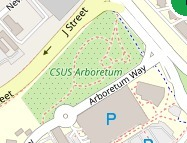
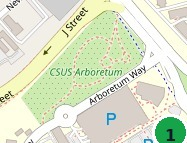
Refine tree and project map rendering

Changed region(s): [[0.8021, 0.7832, 1.0, 1.0], [0.9091, 0.0, 1.0, 0.1399]]

diff --git a/src/reporter_client/services/map_processor_service.py b/src/reporter_client/services/map_processor_service.py
@@ -14,6 +14,8 @@ class MapRenderPoint:
     ordinal: int
     risk_rating: str
     geojson_src: str
+    longitude: float | None = None
+    latitude: float | None = None
 
 
 @dataclass(frozen=True)
@@ -23,6 +25,10 @@ class MapRenderRequest:
     alt: str
     points: list[MapRenderPoint]
     basemap_slug: str | None = None
+    crop_width: int | None = None
+    crop_height: int | None = None
+    marker_radius: int | None = None
+    marker_font_size: int | None = None
 
 
 @dataclass(frozen=True)
@@ -36,6 +42,7 @@ class MapProcessorService:
     """Render numbered risk markers onto a prepared project basemap."""
 
     _MARKER_RADIUS = 18
+    _MARKER_FONT_SIZE = 16
     _MARKER_OUTLINE = "#ffffff"
     _TEXT_COLOR = "#111827"
 
@@ -62,12 +69,34 @@ class MapProcessorService:
             return self._fallback(request)
 
         annotated = image.copy()
+        crop_box = self._crop_box(
+            request=request,
+            bounds=bounds,
+            image_width=annotated.width,
+            image_height=annotated.height,
+            render_points=render_points,
+        )
+        crop_left, crop_top, crop_right, crop_bottom = crop_box
+        if crop_box != (0, 0, annotated.width, annotated.height):
+            annotated = annotated.crop(crop_box)
         draw = ImageDraw.Draw(annotated)
-        font = ImageFont.load_default()
+        marker_radius = request.marker_radius or self._MARKER_RADIUS
+        marker_font_size = request.marker_font_size or self._MARKER_FONT_SIZE
+        font = self._load_font(marker_font_size)
 
         for render_point, longitude, latitude in render_points:
-            x, y = self._project(longitude, latitude, bounds, annotated.width, annotated.height)
-            self._draw_marker(draw, font, x, y, render_point.ordinal, self._risk_color(render_point.risk_rating))
+            x, y = self._project(longitude, latitude, bounds, image.width, image.height)
+            x -= crop_left
+            y -= crop_top
+            self._draw_marker(
+                draw,
+                font,
+                x,
+                y,
+                render_point.ordinal,
+                self._risk_color(render_point.risk_rating),
+                marker_radius=marker_radius,
+            )
 
         target_path = self._docs_dir / request.output_asset_src
         target_path.parent.mkdir(parents=True, exist_ok=True)
@@ -81,6 +110,9 @@ class MapProcessorService:
     def _load_render_points(self, points: list[MapRenderPoint]) -> list[tuple[MapRenderPoint, float, float]]:
         render_points: list[tuple[MapRenderPoint, float, float]] = []
         for render_point in points:
+            if render_point.longitude is not None and render_point.latitude is not None:
+                render_points.append((render_point, render_point.longitude, render_point.latitude))
+                continue
             source_path = self._docs_dir / render_point.geojson_src
             if not source_path.exists():
                 continue
@@ -95,6 +127,31 @@ class MapProcessorService:
             latitude = sum(point[1] for point in coordinates) / len(coordinates)
             render_points.append((render_point, longitude, latitude))
         return render_points
+
+    def _crop_box(
+        self,
+        *,
+        request: MapRenderRequest,
+        bounds: dict[str, float],
+        image_width: int,
+        image_height: int,
+        render_points: list[tuple[MapRenderPoint, float, float]],
+    ) -> tuple[int, int, int, int]:
+        if not request.crop_width or not request.crop_height or not render_points:
+            return (0, 0, image_width, image_height)
+
+        target_width = min(request.crop_width, image_width)
+        target_height = min(request.crop_height, image_height)
+        center_longitude = render_points[0][1]
+        center_latitude = render_points[0][2]
+        center_x, center_y = self._project(center_longitude, center_latitude, bounds, image_width, image_height)
+        left = int(round(center_x - (target_width / 2)))
+        top = int(round(center_y - (target_height / 2)))
+        max_left = image_width - target_width
+        max_top = image_height - target_height
+        left = max(0, min(max_left, left))
+        top = max(0, min(max_top, top))
+        return (left, top, left + target_width, top + target_height)
 
     def _extract_coordinates(self, payload: object) -> list[tuple[float, float]]:
         if not isinstance(payload, dict):
@@ -155,11 +212,13 @@ class MapProcessorService:
         y: float,
         ordinal: int,
         color: str,
+        *,
+        marker_radius: int,
     ) -> None:
-        left = x - self._MARKER_RADIUS
-        top = y - self._MARKER_RADIUS
-        right = x + self._MARKER_RADIUS
-        bottom = y + self._MARKER_RADIUS
+        left = x - marker_radius
+        top = y - marker_radius
+        right = x + marker_radius
+        bottom = y + marker_radius
         draw.ellipse(
             (left, top, right, bottom),
             fill=color,
@@ -176,6 +235,13 @@ class MapProcessorService:
             fill=self._TEXT_COLOR,
             font=font,
         )
+
+    @staticmethod
+    def _load_font(size: int) -> ImageFont.ImageFont | ImageFont.FreeTypeFont:
+        try:
+            return ImageFont.truetype("DejaVuSans-Bold.ttf", size)
+        except OSError:
+            return ImageFont.load_default()
 
     @staticmethod
     def _risk_color(risk_rating: str) -> str:

diff --git a/tests/test_map_services.py b/tests/test_map_services.py
@@ -131,6 +131,56 @@ class TreeMapServiceTests(unittest.TestCase):
         self.assertEqual(artifact.risk_rating, "low")
         self.assertEqual(artifact.geojson_asset_src, "assets/geojson/briarwood_001.geojson")
 
+    def test_build_map_renders_cropped_tree_map_from_gps_when_basemap_exists(self) -> None:
+        with TemporaryDirectory() as tempdir:
+            docs_dir = Path(tempdir) / "docs"
+            map_base_dir = docs_dir / "assets" / "map-bases"
+            map_base_dir.mkdir(parents=True, exist_ok=True)
+            Image.new("RGB", (400, 300), (235, 239, 244)).save(map_base_dir / "briarwood_base.jpg", format="JPEG")
+            (map_base_dir / "briarwood_base.json").write_text(
+                json.dumps(
+                    {
+                        "west": -121.30,
+                        "east": -121.27,
+                        "south": 38.61,
+                        "north": 38.64,
+                        "width": 400,
+                        "height": 300,
+                        "zoom": 16,
+                    }
+                ),
+                encoding="utf-8",
+            )
+            source = TreeReportSource(
+                project="Briarwood",
+                job_id="job_123",
+                client_revision_id="rev_123",
+                archived_at="2026-03-28T12:00:00Z",
+                species="Quercus agrifolia",
+                dbh=30,
+                height=40,
+                gps=GpsPoint(latitude=38.62, longitude=-121.29),
+                risk_profile=RiskProfile(
+                    overall_tree_risk="low",
+                    overall_residual_risk="low",
+                    recommended_inspection_interval="12 months",
+                ),
+                assessor_name="Assessor",
+                transcript="Transcript",
+                completed_inspection_form_url="assets/traq-forms/briarwood_001.pdf",
+                tree_id="briarwood_001",
+                geojson=None,
+            )
+
+            artifact = TreeMapService(docs_dir=docs_dir).build_map(source)
+
+            self.assertEqual(artifact.image_src, "assets/maps/trees/briarwood_001.jpg")
+            rendered_map = docs_dir / "assets" / "maps" / "trees" / "briarwood_001.jpg"
+            self.assertTrue(rendered_map.exists())
+            with Image.open(rendered_map) as image:
+                self.assertEqual(image.format, "JPEG")
+                self.assertEqual(image.size, (320, 240))
+
 
 class ProjectMapServiceTests(unittest.TestCase):
     def test_build_map_uses_all_project_tree_geojson_assets(self) -> None:

diff --git a/src/reporter_client/services/tree_report_services/map.py b/src/reporter_client/services/tree_report_services/map.py
@@ -23,6 +23,8 @@ class TreeMapService:
     """Build the tree-page map asset from the tree source."""
 
     _PLACEHOLDER_IMAGE_SRC = "../assets/maps/job_123_locator.jpg"
+    _CROP_WIDTH = 320
+    _CROP_HEIGHT = 240
 
     def __init__(self, *, docs_dir: Path | None = None, map_processor_service: MapProcessorService | None = None) -> None:
         self._map_processor_service = map_processor_service or MapProcessorService(docs_dir=docs_dir)
@@ -35,14 +37,18 @@ class TreeMapService:
                 fallback_image_src=self._PLACEHOLDER_IMAGE_SRC,
                 alt=f"{source.species} locator map",
                 basemap_slug=project_slug(source.project),
+                crop_width=self._CROP_WIDTH,
+                crop_height=self._CROP_HEIGHT,
                 points=[
                     MapRenderPoint(
                         ordinal=1,
                         risk_rating=source.risk_profile.overall_tree_risk,
-                        geojson_src=resolved_geojson_asset_src,
+                        geojson_src=resolved_geojson_asset_src or "",
+                        longitude=source.gps.longitude,
+                        latitude=source.gps.latitude,
                     )
                 ]
-                if resolved_geojson_asset_src
+                if source.gps or resolved_geojson_asset_src
                 else [],
             )
         )

diff --git a/src/reporter_client/services/project_report_services/map.py b/src/reporter_client/services/project_report_services/map.py
@@ -19,6 +19,9 @@ class ProjectMapArtifact:
 class ProjectMapService:
     """Build the project-page map artifact from all tree geojson sources."""
 
+    _MARKER_RADIUS = 8
+    _MARKER_FONT_SIZE = 6
+
     def __init__(self, *, docs_dir: Path | None = None, map_processor_service: MapProcessorService | None = None) -> None:
         self._map_processor_service = map_processor_service or MapProcessorService(docs_dir=docs_dir)
 
@@ -43,6 +46,8 @@ class ProjectMapService:
                 fallback_image_src=fallback_map_src,
                 alt=f"{project_source.project} assessment map",
                 basemap_slug=project_source.project_slug,
+                marker_radius=self._MARKER_RADIUS,
+                marker_font_size=self._MARKER_FONT_SIZE,
                 points=points,
             )
         )
